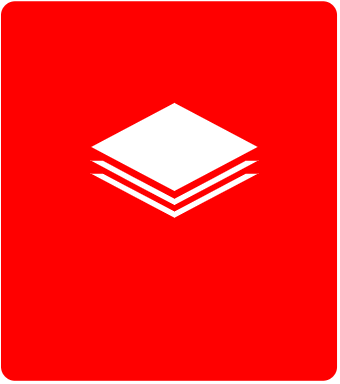
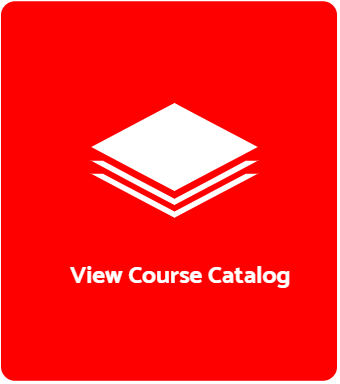
developing front end

Changed region(s): [[0.2059, 0.6875, 0.8529, 0.75]]

diff --git a/src/Project/Client/View/StandardUserHome.java b/src/Project/Client/View/StandardUserHome.java
@@ -11,6 +11,13 @@ import java.awt.Color;
 import java.awt.Font;
 import javax.swing.SwingConstants;
 
+/**
+ * This class runs the User Home Page panel view. It allows the user to view
+ * their own courses, view the course catalog, logout, or exit the program.
+ * 
+ * @author Haseeb Khan, Muhammad Tariq
+ *
+ */
 public class StandardUserHome extends JPanel {
 
 	/**
@@ -18,7 +25,19 @@ public class StandardUserHome extends JPanel {
 	 */
 	public StandardUserHome(JFrame frame) {
 		setLayout(null);
-		
+
+		JLabel exitButton = new JLabel("");
+		exitButton.setCursor(Cursor.getPredefinedCursor(Cursor.HAND_CURSOR));
+		exitButton.setBounds(1286, 30, 50, 50);
+		exitButton.setIcon(new ImageIcon(StandardUserHome.class.getResource("/exitButtonOutline.png")));
+		exitButton.addMouseListener(new MouseAdapter() {
+			@Override
+			public void mouseClicked(MouseEvent e) {
+				frame.dispose();
+			}
+		});
+		add(exitButton);
+
 		JLabel viewCatalogueCard = new JLabel("");
 		viewCatalogueCard.setCursor(Cursor.getPredefinedCursor(Cursor.HAND_CURSOR));
 		viewCatalogueCard.addMouseListener(new MouseAdapter() {
@@ -29,24 +48,10 @@ public class StandardUserHome extends JPanel {
 				frame.revalidate();
 			}
 		});
-		
-		JLabel viewCatalogLabel = new JLabel("View Course Catalog");
-		viewCatalogLabel.setHorizontalAlignment(SwingConstants.CENTER);
-		viewCatalogLabel.setFont(new Font("Arial", Font.BOLD, 22));
-		viewCatalogLabel.setForeground(Color.WHITE);
-		viewCatalogLabel.setBounds(816, 450, 229, 23);
-		add(viewCatalogLabel);
-		
-		JLabel viewCoursesLabel = new JLabel("View My Courses");
-		viewCoursesLabel.setHorizontalAlignment(SwingConstants.CENTER);
-		viewCoursesLabel.setFont(new Font("Arial", Font.BOLD, 22));
-		viewCoursesLabel.setForeground(Color.	WHITE);
-		viewCoursesLabel.setBounds(321, 450, 194, 23);
-		add(viewCoursesLabel);
 		viewCatalogueCard.setBounds(755, 188, 340, 398);
 		viewCatalogueCard.setIcon(new ImageIcon(StandardUserHome.class.getResource("/viewCatalogueCard.png")));
 		add(viewCatalogueCard);
-		
+
 		JLabel viewCoursesCard = new JLabel("");
 		viewCoursesCard.addMouseListener(new MouseAdapter() {
 			@Override
@@ -60,7 +65,7 @@ public class StandardUserHome extends JPanel {
 		viewCoursesCard.setBounds(244, 188, 340, 398);
 		viewCoursesCard.setIcon(new ImageIcon(StandardUserHome.class.getResource("/viewCoursesCard.png")));
 		add(viewCoursesCard);
-		
+
 		JLabel userHomeBackground = new JLabel("");
 		userHomeBackground.setBounds(0, 0, 1366, 768);
 		userHomeBackground.setIcon(new ImageIcon(StandardUserHome.class.getResource("/userHomeBackground.png")));

diff --git a/src/Project/Client/View/MyCourses.java b/src/Project/Client/View/MyCourses.java
@@ -5,12 +5,18 @@ import javax.swing.JFrame;
 import javax.swing.JLabel;
 import javax.swing.JPanel;
 
-import java.awt.Container;
 import java.awt.event.MouseAdapter;
 import java.awt.event.MouseEvent;
 import java.awt.Cursor;
 
-
+/**
+ * This class runs the user's Courses panel view. It displays the courses that
+ * the user is currently enrolled in with the option to add/remove courses,
+ * return to homepage, logout, or exit the application.
+ * 
+ * @author Haseeb Khan, Muhammad Tariq
+ *
+ */
 public class MyCourses extends JPanel {
 
 	/**
@@ -18,7 +24,19 @@ public class MyCourses extends JPanel {
 	 */
 	public MyCourses(JFrame frame) {
 		setLayout(null);
-		
+
+		JLabel exitButton = new JLabel("");
+		exitButton.setCursor(Cursor.getPredefinedCursor(Cursor.HAND_CURSOR));
+		exitButton.setBounds(1286, 30, 50, 50);
+		exitButton.setIcon(new ImageIcon(MyCourses.class.getResource("/exitButton.png")));
+		exitButton.addMouseListener(new MouseAdapter() {
+			@Override
+			public void mouseClicked(MouseEvent e) {
+				frame.dispose();
+			}
+		});
+		add(exitButton);
+
 		JLabel backButton = new JLabel("");
 		backButton.setCursor(Cursor.getPredefinedCursor(Cursor.HAND_CURSOR));
 		backButton.addMouseListener(new MouseAdapter() {
@@ -33,13 +51,10 @@ public class MyCourses extends JPanel {
 		backButton.setIcon(new ImageIcon(MyCourses.class.getResource("/backButton.png")));
 		add(backButton);
 
-				
 		JLabel myCourseBackground = new JLabel("");
 		myCourseBackground.setBounds(0, 0, 1366, 768);
 		myCourseBackground.setIcon(new ImageIcon(Login.class.getResource("/loginBackground.png")));
 		add(myCourseBackground);
-		
-		
 
 	}
 

diff --git a/src/Project/Client/View/CourseCatalog.java b/src/Project/Client/View/CourseCatalog.java
@@ -9,6 +9,14 @@ import javax.swing.JLabel;
 import javax.swing.JPanel;
 import java.awt.Cursor;
 
+/**
+ * This class runs the Course Catalog panel view. It displays the courses that
+ * are in the catalog with the option for user to add courses,
+ * return to homepage, logout, or exit the application.
+ * 
+ * @author Haseeb Khan, Muhammad Tariq
+ *
+ */
 public class CourseCatalog extends JPanel {
 
 	/**
@@ -16,7 +24,19 @@ public class CourseCatalog extends JPanel {
 	 */
 	public CourseCatalog(JFrame frame) {
 		setLayout(null);
-		
+
+		JLabel exitButton = new JLabel("");
+		exitButton.setCursor(Cursor.getPredefinedCursor(Cursor.HAND_CURSOR));
+		exitButton.setBounds(1286, 30, 50, 50);
+		exitButton.setIcon(new ImageIcon(MyCourses.class.getResource("/exitButtonOutline.png")));
+		exitButton.addMouseListener(new MouseAdapter() {
+			@Override
+			public void mouseClicked(MouseEvent e) {
+				frame.dispose();
+			}
+		});
+		add(exitButton);
+
 		JLabel backButton = new JLabel("");
 		backButton.setCursor(Cursor.getPredefinedCursor(Cursor.HAND_CURSOR));
 		backButton.addMouseListener(new MouseAdapter() {
@@ -30,7 +50,7 @@ public class CourseCatalog extends JPanel {
 		backButton.setBounds(30, 30, 50, 50);
 		backButton.setIcon(new ImageIcon(MyCourses.class.getResource("/backButton.png")));
 		add(backButton);
-		
+
 		JLabel courseCatalogBackground = new JLabel("");
 		courseCatalogBackground.setBounds(0, 0, 1366, 768);
 		courseCatalogBackground.setIcon(new ImageIcon(StandardUserHome.class.getResource("/userHomeBackground.png")));

diff --git a/src/Project/Client/View/Login.java b/src/Project/Client/View/Login.java
@@ -17,11 +17,30 @@ import java.awt.event.MouseEvent;
 import java.awt.Cursor;
 import javax.swing.SwingConstants;
 
+/**
+ * This class runs the Login panel view. It creates username and password fields
+ * for user input, which is then verified with database to confirm login.
+ * 
+ * @author Haseeb Khan, Muhammad Tariq
+ *
+ */
 public class Login extends JPanel {
+	/**
+	 * Username text field for user login input
+	 */
 	private JTextField usernameTextField;
-	private JTextField passwordTextField;
+	/**
+	 * Password text field for user login input
+	 */
 	private JPasswordField passwordField;
+	/**
+	 * Display text label "Password"
+	 */
 	private JLabel passwordLabel;
+	/**
+	 * Display text label "Username"
+	 */
+	private JLabel usernameLabel;
 
 	/**
 	 * Create the panel.
@@ -46,7 +65,7 @@ public class Login extends JPanel {
 		passwordField.setBounds(556, 443, 254, 28);
 		add(passwordField);
 
-		JLabel usernameLabel = new JLabel("Username");
+		usernameLabel = new JLabel("Username");
 		usernameLabel.setForeground(Color.GRAY);
 		usernameLabel.setFont(new Font("Arial", Font.PLAIN, 16));
 		usernameLabel.setBounds(556, 354, 77, 14);

diff --git a/src/Project/Client/View/FrontEnd.java b/src/Project/Client/View/FrontEnd.java
@@ -7,8 +7,17 @@ import javax.swing.JFrame;
 import javax.swing.JPanel;
 import javax.swing.border.EmptyBorder;
 
+/**
+ * This class creates the main frame that is used for the front end of the
+ * program. It switches the frame to the program's Login panel.
+ * 
+ * @author Haseeb Khan, Muhammad Tariq
+ *
+ */
 public class FrontEnd extends JFrame {
-
+	/**
+	 * Main frame that the application runs on.
+	 */
 	private JFrame MainFrame;
 
 	/**
@@ -20,7 +29,7 @@ public class FrontEnd extends JFrame {
 				try {
 					FrontEnd frame = new FrontEnd();
 					frame.MainFrame.setVisible(true);
-					
+
 				} catch (Exception e) {
 					e.printStackTrace();
 				}
@@ -36,11 +45,11 @@ public class FrontEnd extends JFrame {
 
 		MainFrame.setTitle("Course Registration System");
 		MainFrame.setResizable(false);
-		MainFrame.setDefaultCloseOperation(JFrame.EXIT_ON_CLOSE);		
+		MainFrame.setDefaultCloseOperation(JFrame.EXIT_ON_CLOSE);
 		MainFrame.setSize(1366, 768);
 
 		Login loginPanel = new Login(MainFrame);
-		
+
 		MainFrame.setContentPane(loginPanel);
 		MainFrame.revalidate();
 		MainFrame.setLocationRelativeTo(null);
